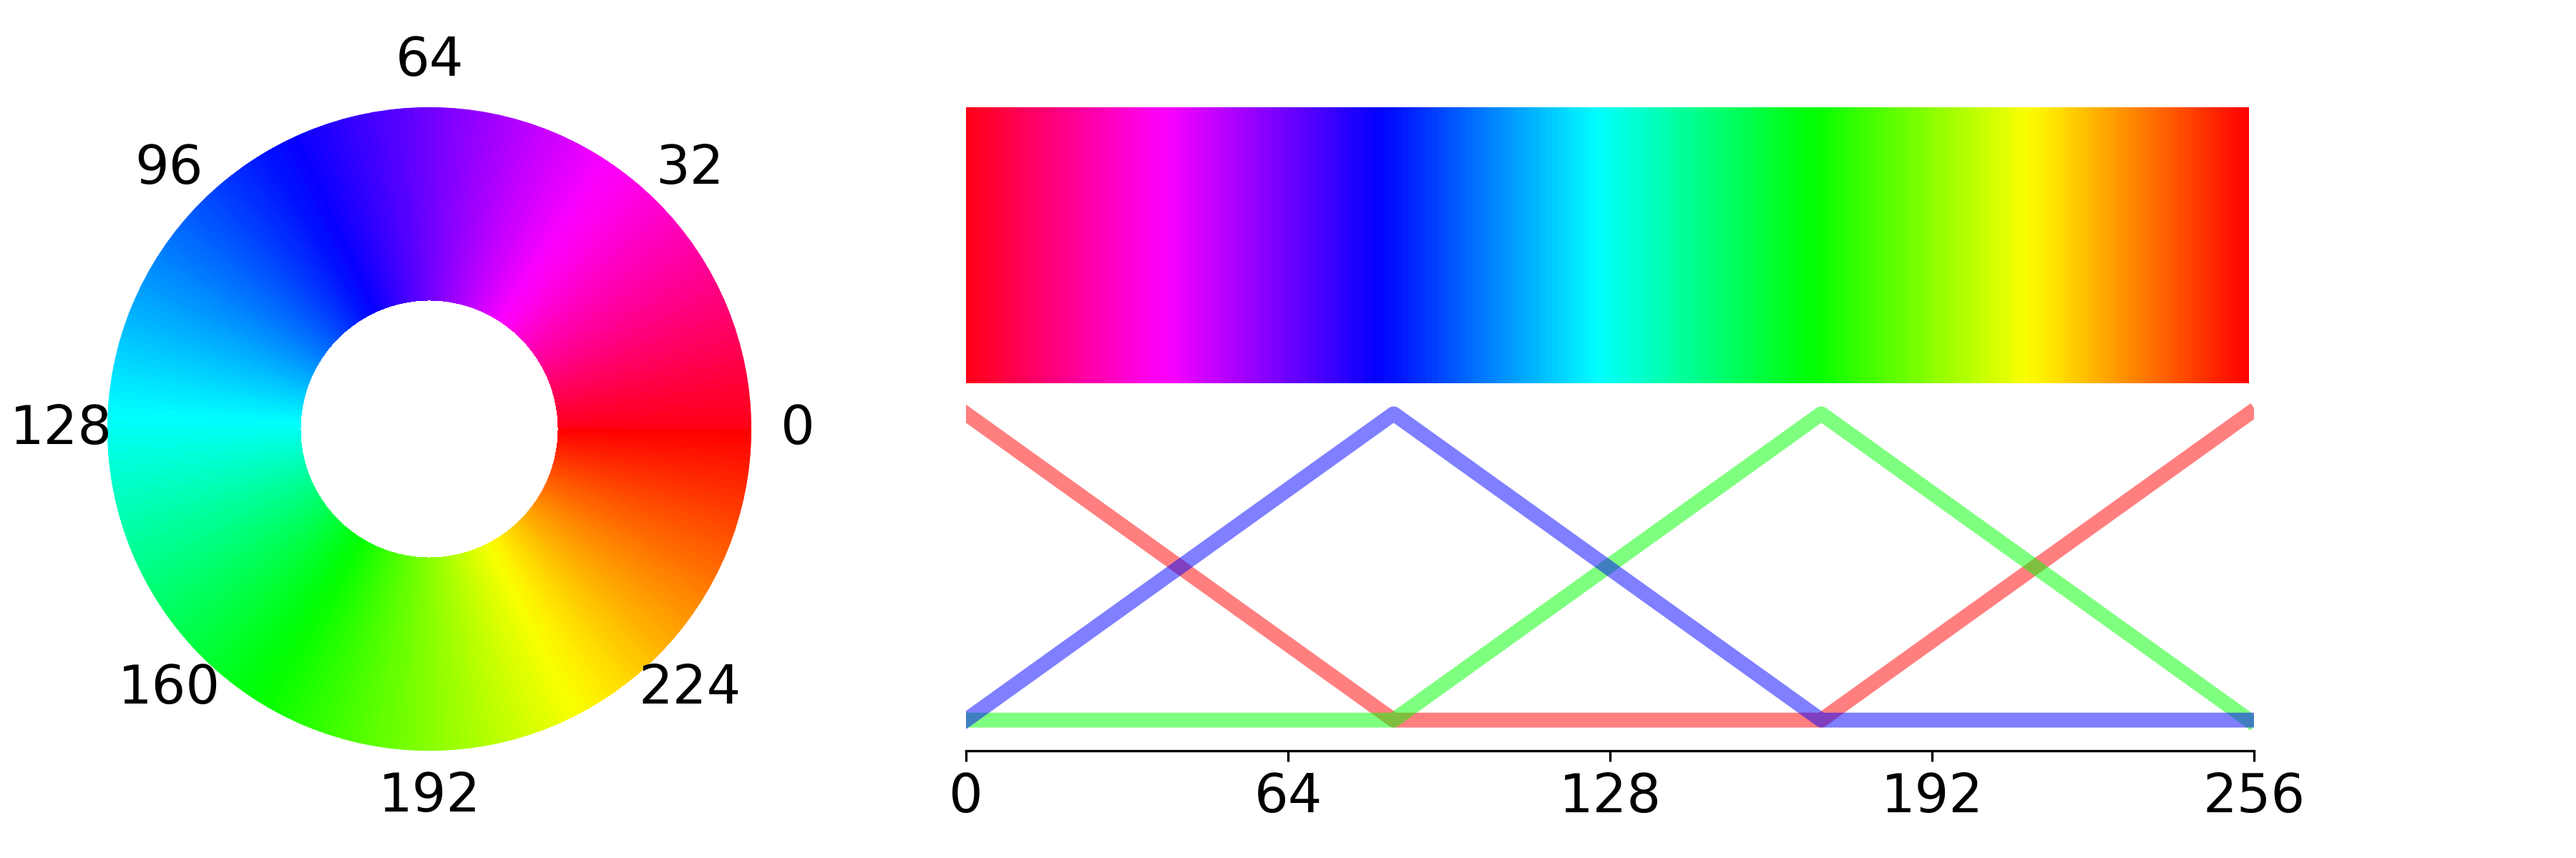
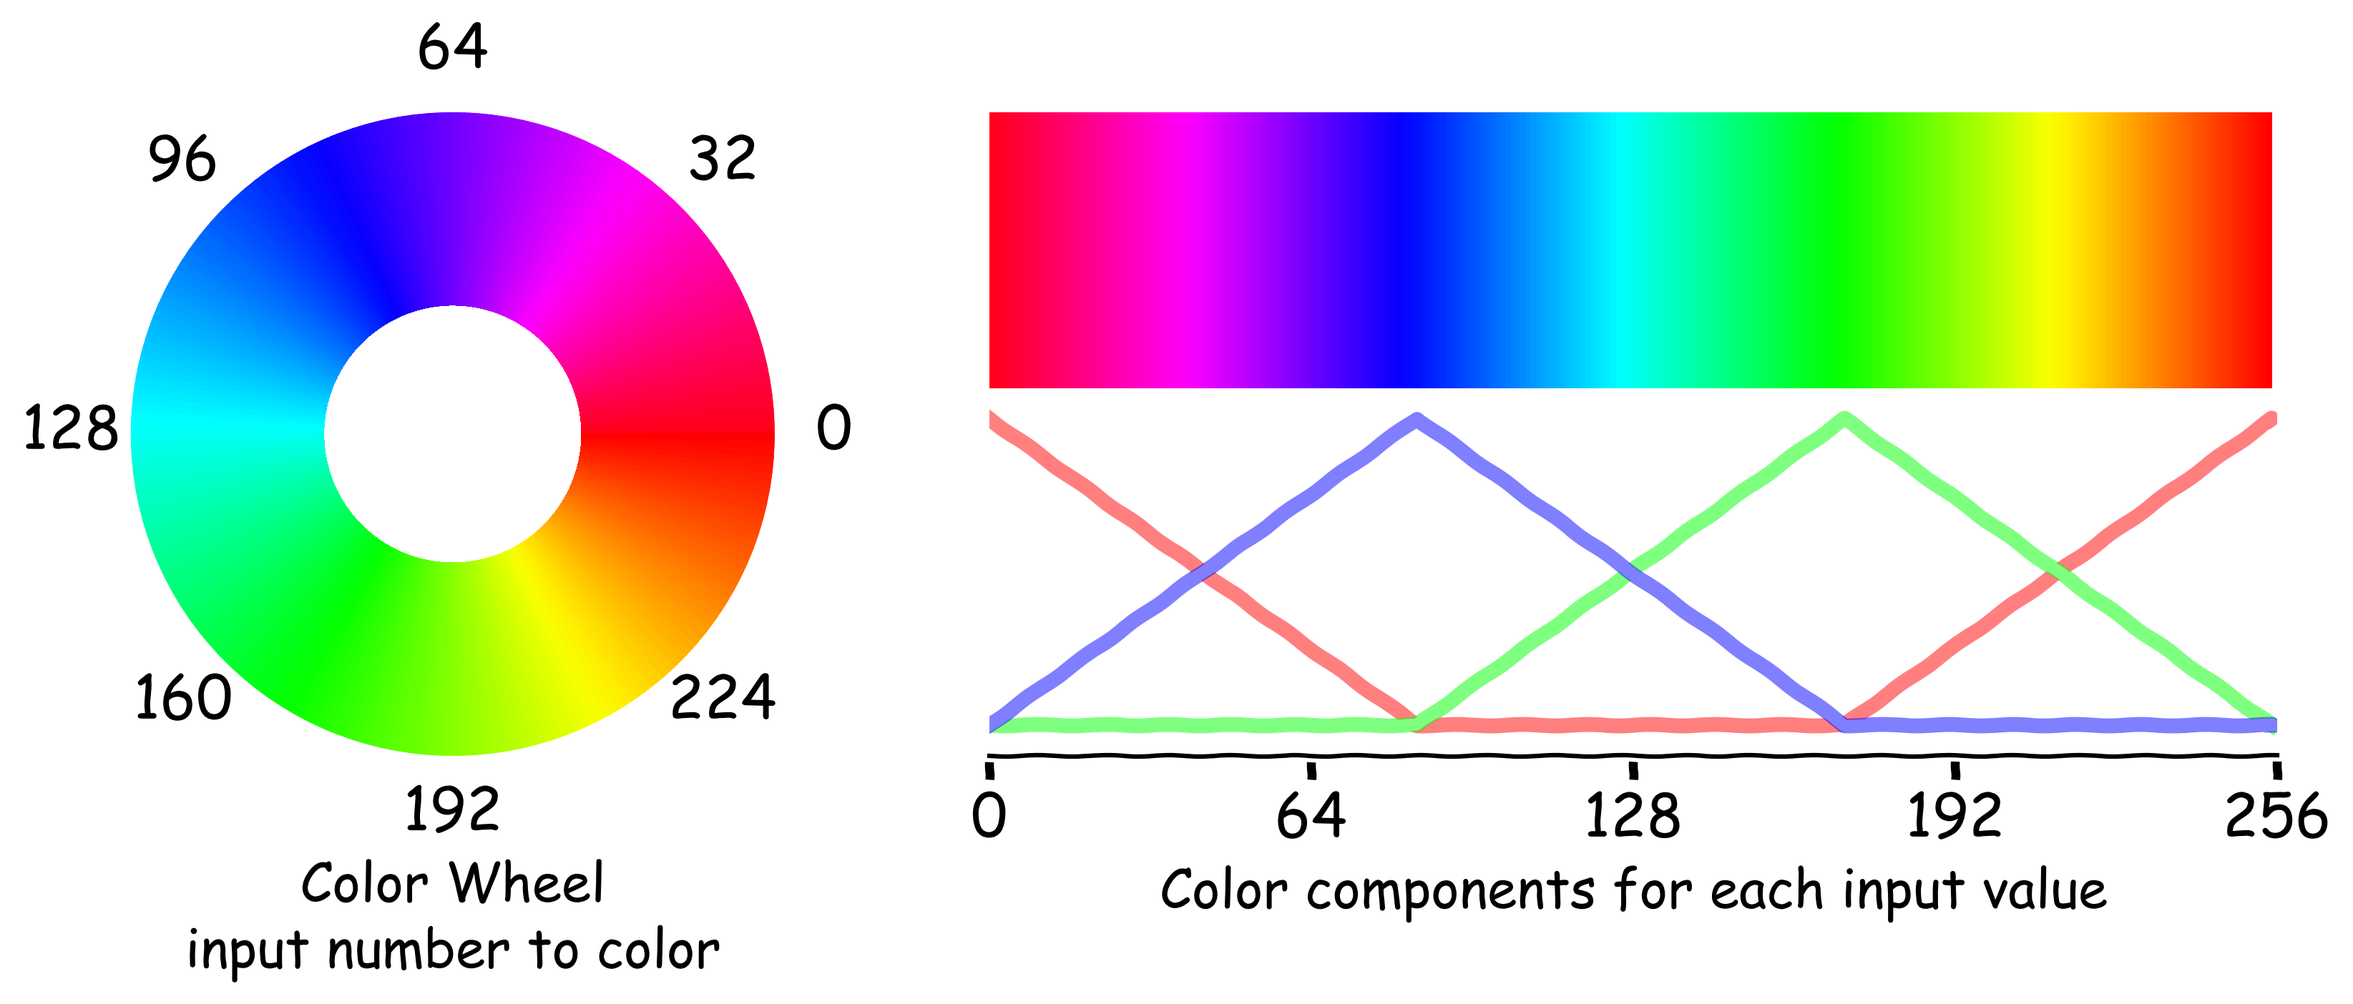
Update figures for waves and color wheel.

diff --git a/content/book/allcommands.md b/content/book/allcommands.md
@@ -207,7 +207,7 @@ A good place to see why these functions are useful is the set of lessons on [ani
 
 The `colorWheel` function turns a single number representing an angle into a color from the color wheel.
 
-<!--TODO: add plots-->
+![Turning an input byte into a hue from the color wheel.](/images/bookpics/colorwheel.png "Turning an input byte into a hue from the color wheel.")
 
 <div class="ssw-codecontent" markdown=0>
 <pre class="ssw-codeblock">
